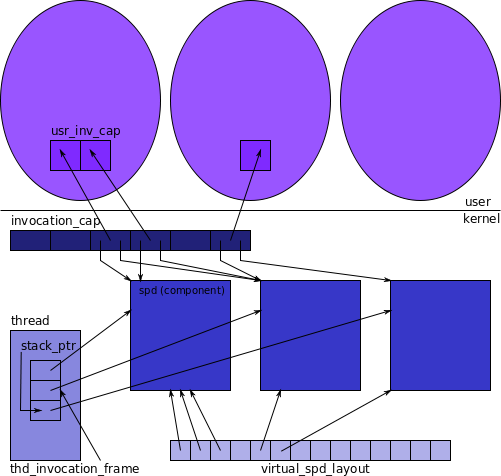
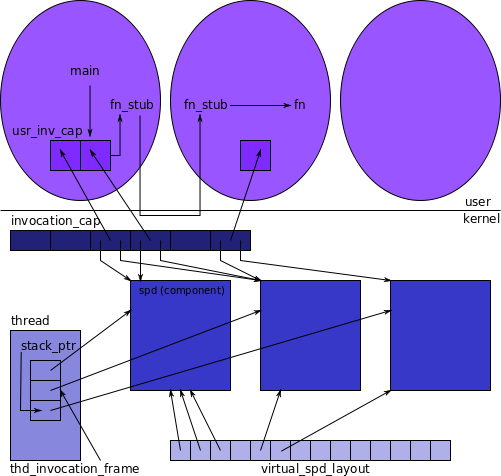
data structure png + markdown...

diff --git a/doc/design/core_data-structures.md b/doc/design/core_data-structures.md
@@ -1,2 +1,106 @@
-![data structures](http://www.seas.gwu.edu/~gparmer/data_structures.png)
+_Composite_ Data-Structures and Invocation Path
+===============================================
+
+This document briefly details the main data-structures in the
+_Composite_ kernel, and the invocation path between components.
+
+Kernel Data-Structures
+----------------------
+
+<center>
+![Composite data structures](http://www.seas.gwu.edu/~gparmer/data_structures.png)
+</center>
+
+The main data-structures include:
+
+- `spd` : Each component is described by a `struct spd`.  Not shown
+  are the page tables that are referenced by the `spd`.  Also included
+  in the `spd` is a list of extents of valid virtual addresses for the
+  component, a list of capabilities that are associated with specific
+  faults (i.e. capabilities that should be invoked if that fault
+  occurs), a base and extent of the capabilities accessible by the
+  `spd`, and other fields.
+
+- `thread` : The thread structure includes a stack of
+  `thd_invocation_frame`s, and the `stack_ptr` indexes the top of the
+  stack.  This structure acts as a stack of invocations; the bottom of
+  the stack is the component that the thread begins execution in, and
+  when a component is invoked, a reference to it is pushed on the
+  stack.  When an invoked function in the interface of a component
+  returns, it pops an item off of the stack to expose the new head,
+  and current component.  Not shown here, an invocation frame holds
+  the instruction and stack pointers to return to the previous
+  component.
+
+- `invocation_cap` : When an invocation is made, the component making
+  the invocation specifies a *capability* corresponding to a function
+  in the interface of the invoked component.  Each `invocation_cap`
+  specifies the component that _owns_ it, the _destination_ component
+  of the invocation, and the instruction pointer to begin execution
+  at.  Additionally, each capability has a corresponding user-level
+  `usr_inv_cap` that includes not only the capability number to pass
+  to the kernel, and a function pointer to call to mediate the
+  invocation.
+
+- `virtual_spd_layout` : Currently, _Composite_ is a single
+  address-space OS.  Components don't overlap in virtual
+  addresses. The `virtual_spd_layout` is an array with each entry
+  corresponding to a 4MB region of virtual address range, and pointing
+  to the `spd` that owns that region.
+
+The Invocation Operation
+------------------------
+
+A client component executing in a function (e.g. `main`) calls a
+function (e.g. `fn`).  The procedure for this operation follows:
+
+- The loading process makes such an invocation execute code generated
+  by `src/platform/linux/link_load/gen_client_stub.c`.  This code
+  parses the `usr_inv_cap` and retrieves both the capability number,
+  and the function pointer to call to conduct the invocation.  This
+  code is dynamically generated by the `cos_loader`.
+
+- If both components are in the same protection domain (via Mutable
+  Protection Domains), then this function pointer points directly to
+  `fn`, thus making its invocation have very little overhead.
+  Otherwise, a stub function is invoked.
+
+- The stub's job is to marshall any arguments that cannot be passed in
+  4 registers, and invoke the kernel.  These clients stubs are defined
+  in `src/components/interface/*/stubs/c_stub.c`.  If a function does
+  not require more than 4 scalar arguments, then the default stub can
+  be used in `src/components/lib/c_stub.S`.  This code uses `sysenter`
+  to call the kernel.
+
+- Once in the kernel, execution begins in
+  `src/platform/linux/module/kern_entry.S:sysenter_interposition_entry`
+  which calls `src/platform/linux/module/ipc.S:composite_call_ipc`.
+  This assembly function calls the
+  `src/kernel/inv.c:ipc_walk_static_cap` function.  This is the main
+  logic that will 1) parse through the capability specified to find
+  the destination component and entry instruction, 2) switch
+  protection domains (by writing to `cr3`), and 3) pushes onto the
+  thread's invocation stack the new component.
+
+- An upcall is triggered at that address in the invoked component and
+  execution begins at another stub that demarshals the arguments,
+  `src/components/interface/*/stubs/s_stub.S`.  If defined, an
+  additional `c` stub is called in
+  `src/components/interface/*/stubs/s_cstub.c`.  These call the actual
+  function itself.
+
+- When the function returns it reverses course through all of these
+  actions.  In the kernel, control flows through
+  `src/platform/linux/module/kern_entry.S:sysenter_interposition_entry`,
+  then `src/platform/linux/module/ipc.S:composite_ret_ipc` that in
+  turn calls `src/kernel/inv.c:pop`.  This function pops an item off
+  of the invocation stack, switches protection domains, and restores
+  the stack and instruction pointers in the calling component that
+  were saved in the stack.
+
+Future Changes
+--------------
+
+In the future, we will probably make the capability table per-`spd`,
+thus index into a local table for each component.
 
